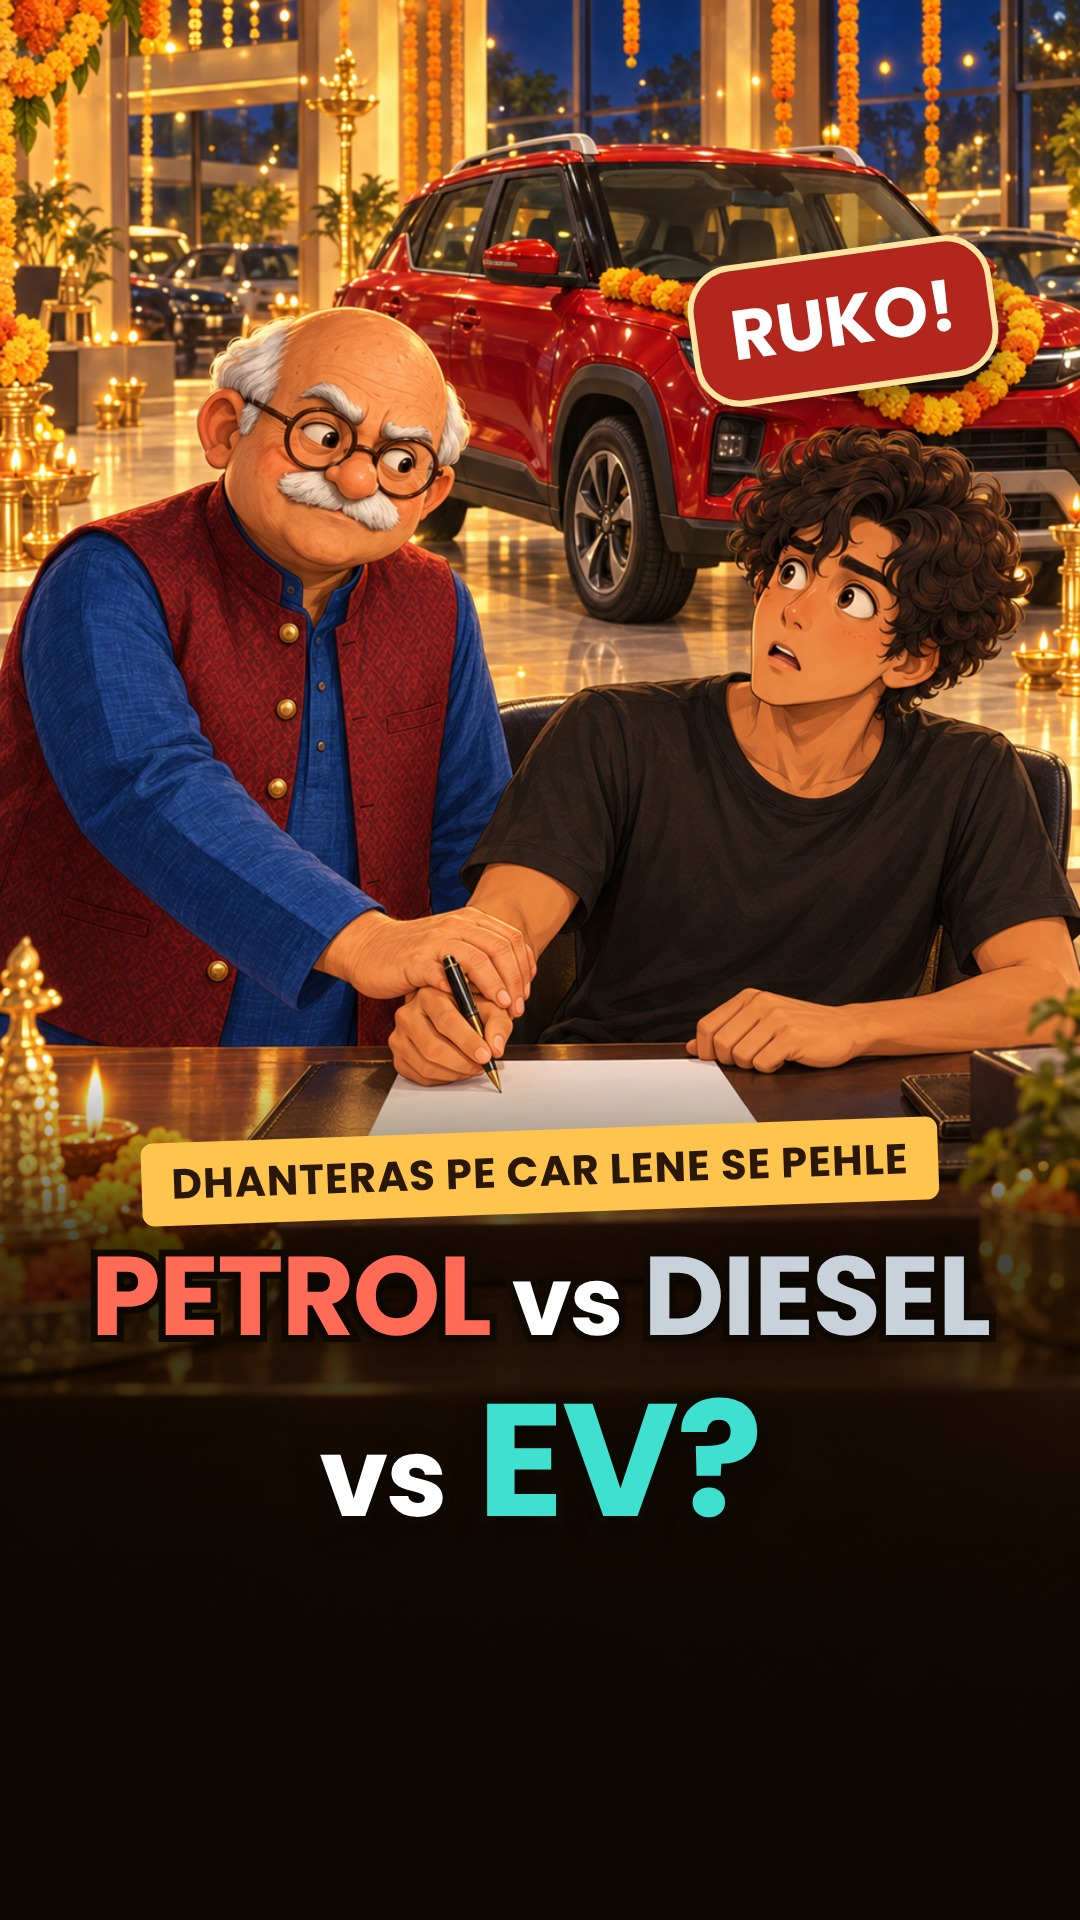
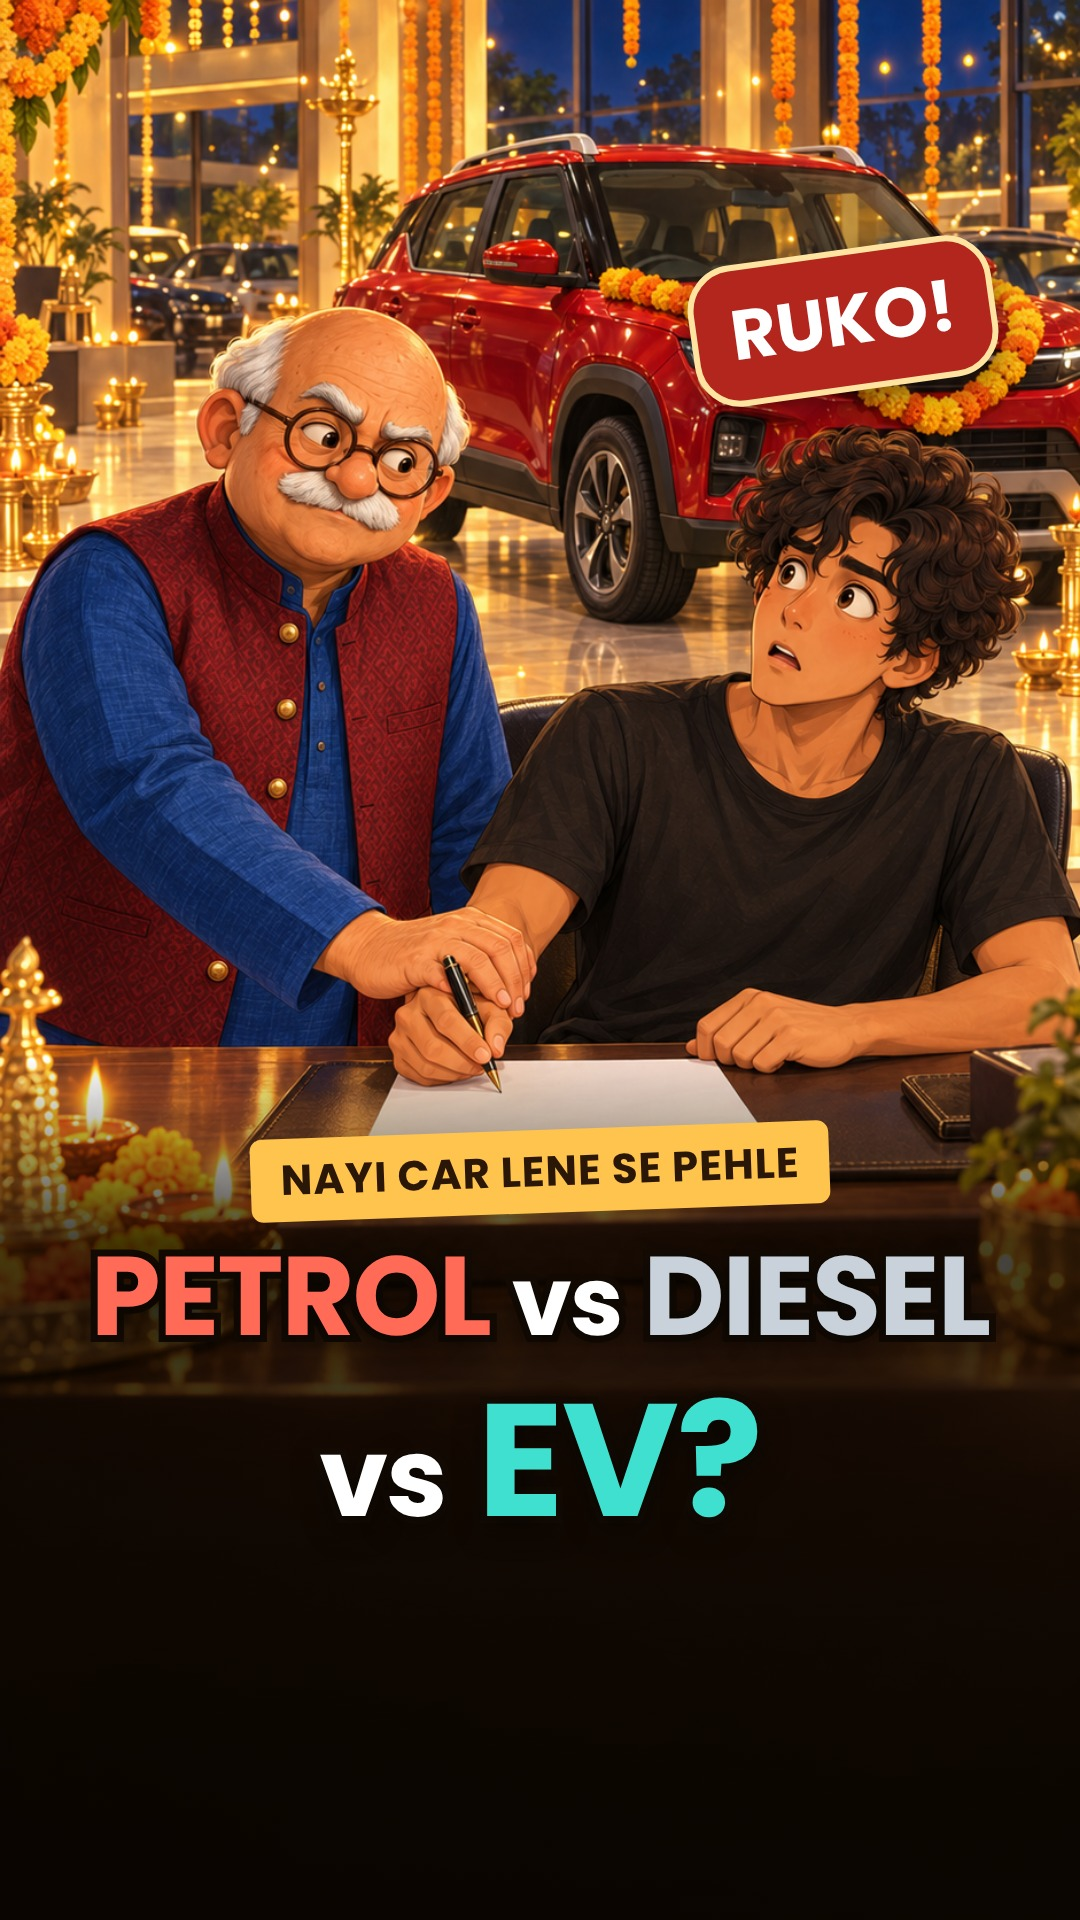
Nexon cover: evergreen tag
Claude-Session: https://claude.ai/code/session_01YKf1wtEEG6GdVsho1Vzxfg

Changed region(s): [[0.1222, 0.5625, 0.8861, 0.6562]]

diff --git a/projects/nexon-4-fuel/cover.py b/projects/nexon-4-fuel/cover.py
@@ -17,7 +17,7 @@ html,body{{margin:0;width:1080px;height:1920px;overflow:hidden;background:#120c0
 </style></head><body>
 <div class="art"></div><div class="shade"></div>
 <div class="stamp">RUKO!</div>
-<div class="tag">DHANTERAS PE CAR LENE SE PEHLE</div>
+<div class="tag">NAYI CAR LENE SE PEHLE</div>
 <div class="h" style="top:1240px;font-size:112px;white-space:nowrap"><span style="color:#FF6B57">PETROL</span> <span style="color:#fff;font-size:96px">vs</span> <span style="color:#C9D1DB">DIESEL</span></div>
 <div class="h" style="top:1380px;font-size:160px"><span style="color:#fff;font-size:110px">vs</span> <span style="color:#3FE0CF">EV?</span></div>
 </body></html>"""
